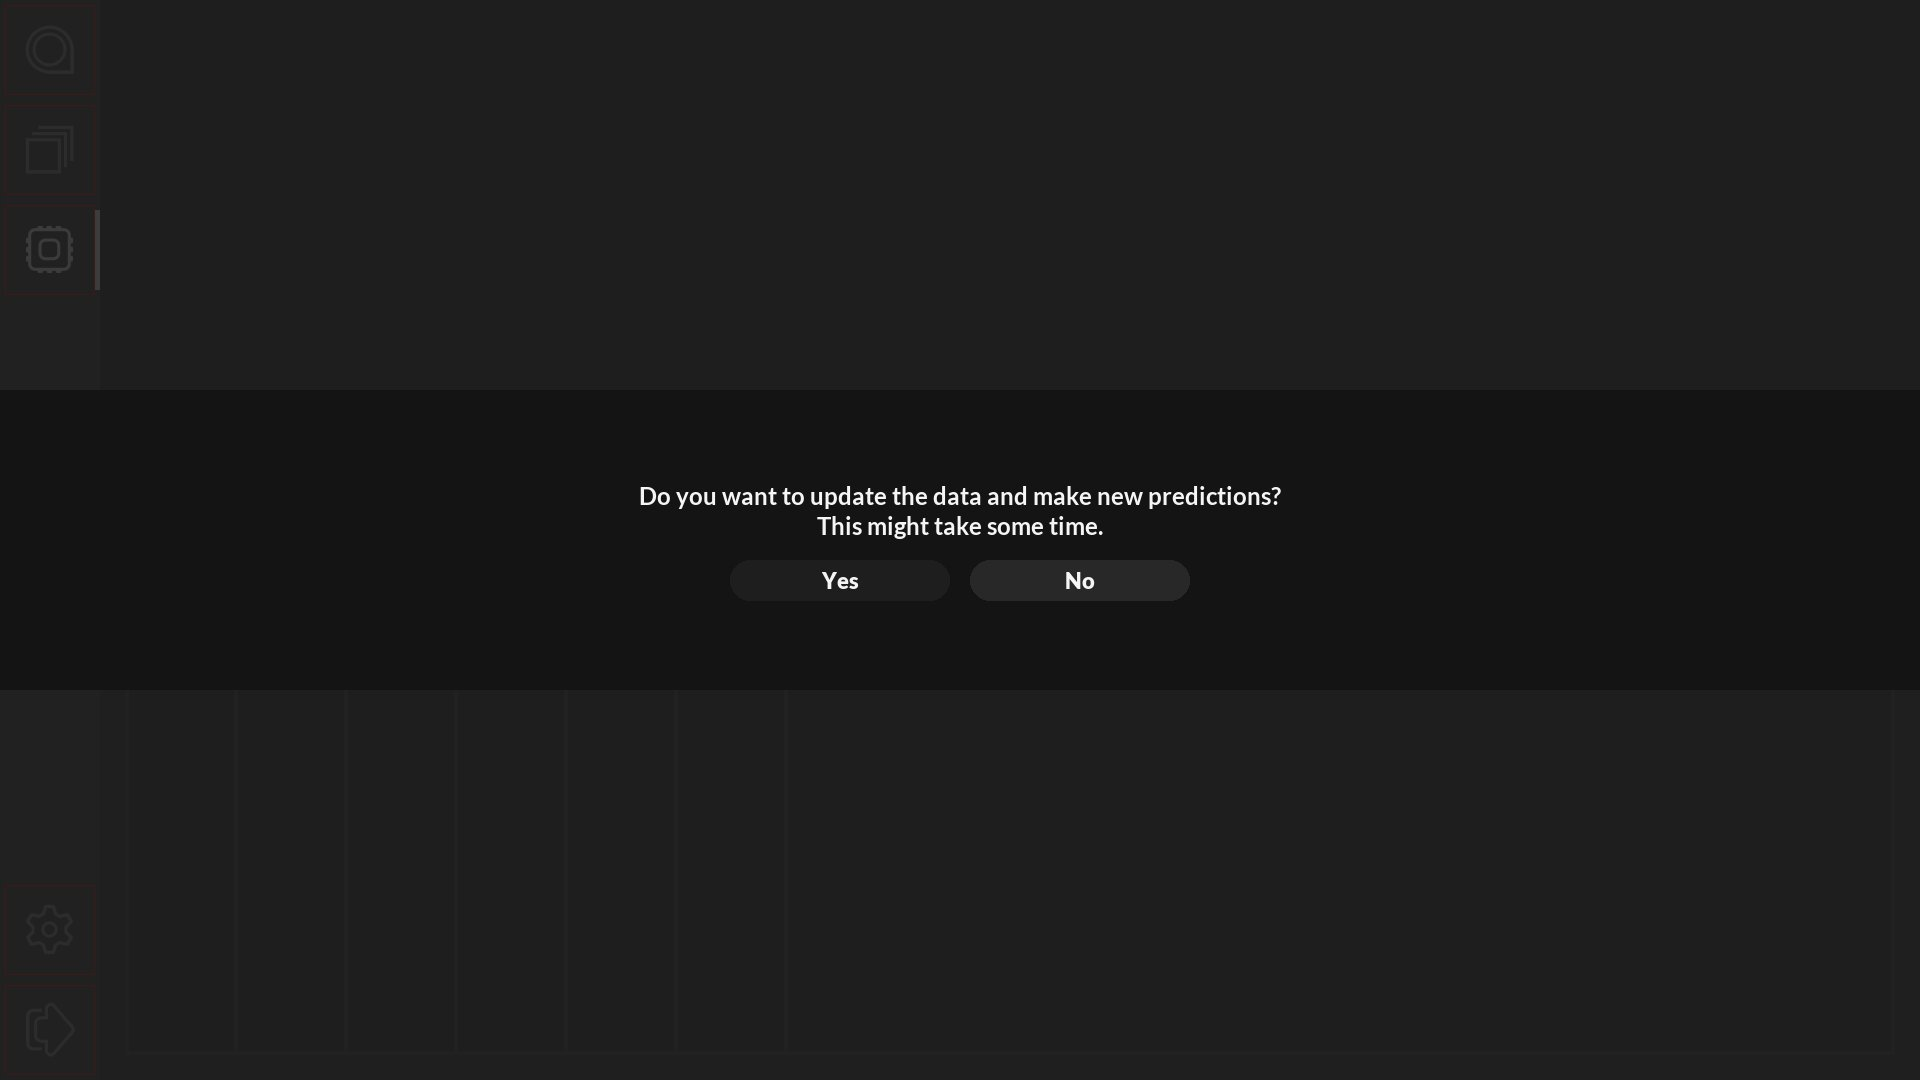
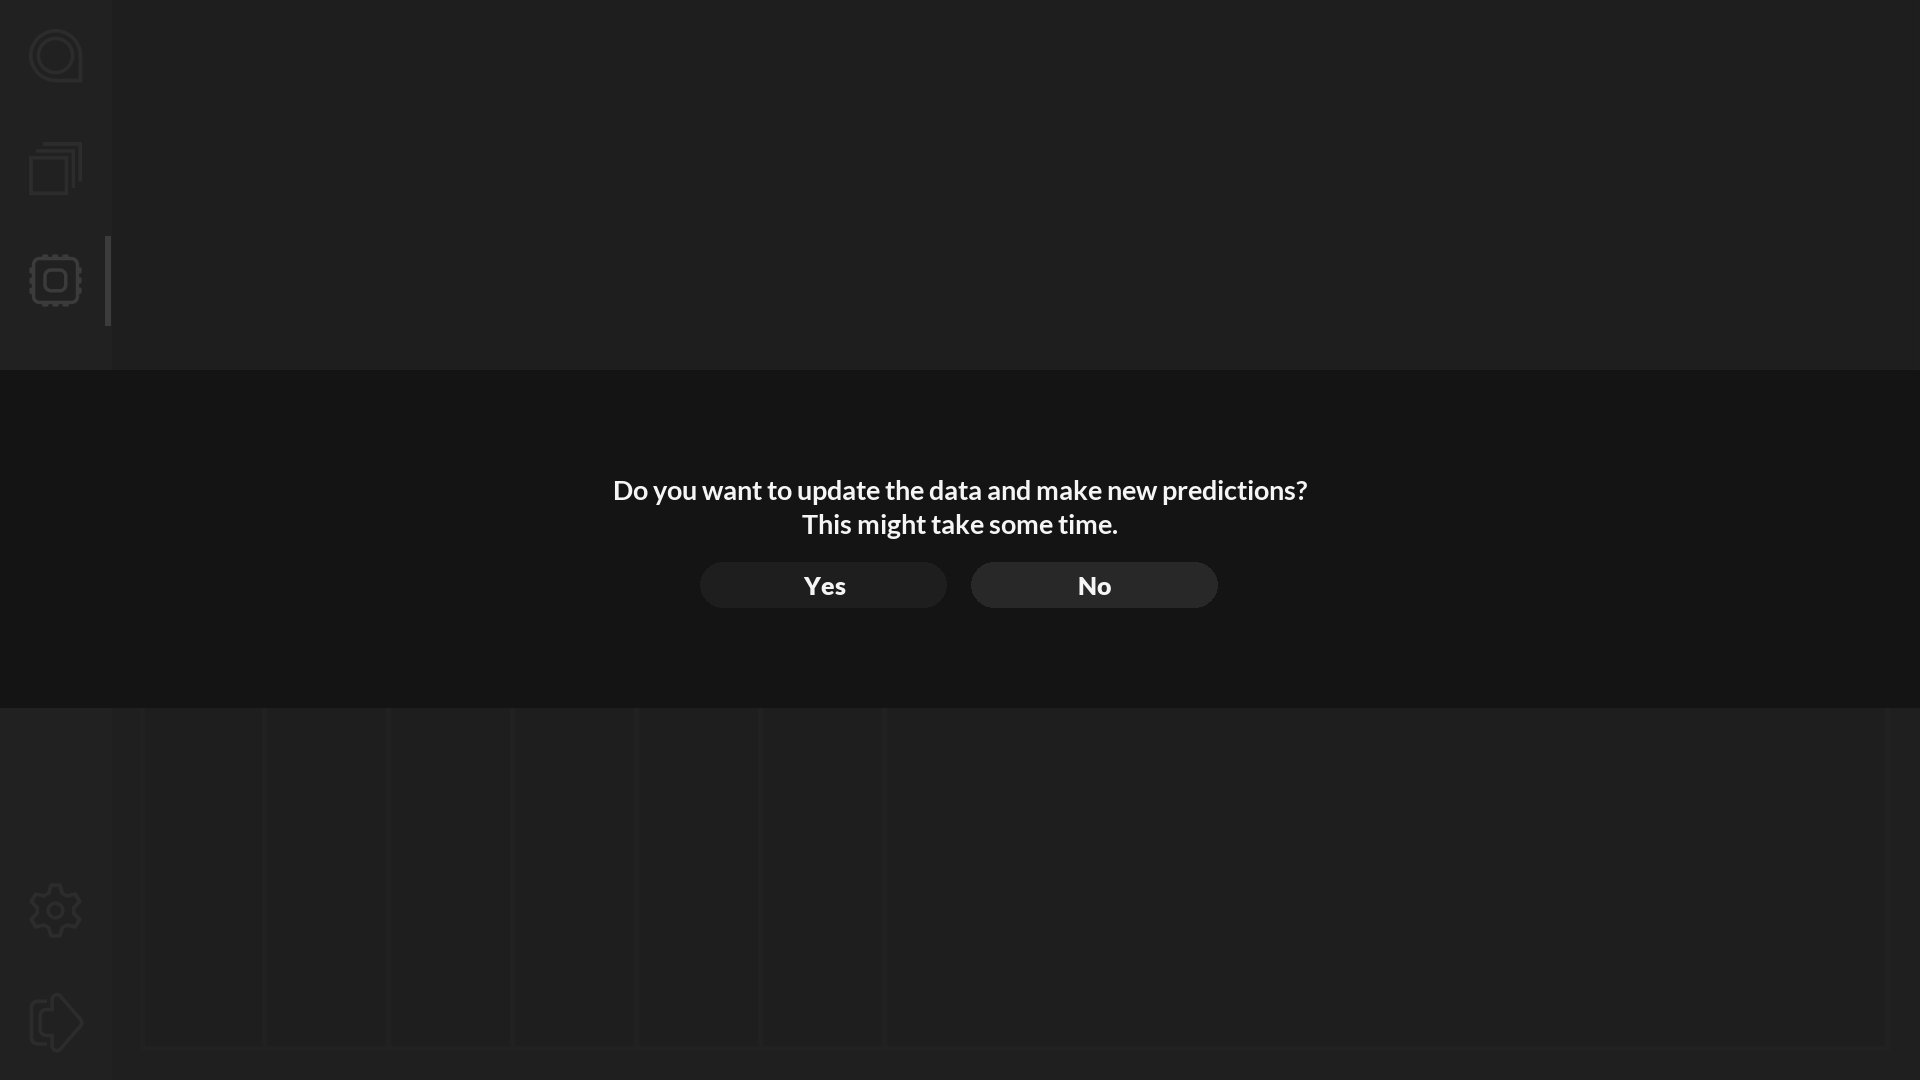
Visual and computational threads set up

diff --git a/src/modules/computingScene.py b/src/modules/computingScene.py
@@ -2,13 +2,43 @@
 import pygame as pg
 from src.classes.File import File
 import src.modules.stockHelper as sh
+from threading import Thread
 
 # Initializes predictions scene
 def boot(window, settings):
 
+    # Creates threads
+    visualThread = Thread(target=programLoop, args=(window, settings,))
+    computationThread = Thread(target=updatePredictions, args=(settings,))
+
+    # Starts threads
+    visualThread.start()
+    computationThread.start()
+
+    # Waits for threads to be done
+    visualThread.join()
+    computationThread.join()
+
+    return True, "predictions"
+
+def updatePredictions(settings):
+    
+    for i in range(200000): print(i)
+
+    predictionsData = File("data/predictions.datcs")
+    predictionsData.set("finishedUpdating", True)
+    predictionsData.save()
+
+# Visual thread
+def programLoop(window, settings):
+
     # Scene variables
     clock = pg.time.Clock()
     ui = generateUI(settings)
+
+    predictionsData = File("data/predictions.datcs")
+    predictionsData.set("finishedUpdating", False)
+    predictionsData.save()
 
     # Main scene loop
     while True:
@@ -21,7 +51,7 @@ def boot(window, settings):
 
         # Updates window
         response = handleUI(window, settings, ui)
-        if response != 1: return response
+        if response != 1: break
         window.update()
         window.blit(ui["misc"][0], (0, 0))
         clock.tick(60)
@@ -47,6 +77,7 @@ def generateUI(settings, misc=True):
 
     return ui
 
+# Handles input and visualization
 def handleUI(window, settings, ui):
 
     # More compact argument
@@ -67,10 +98,12 @@ def handleUI(window, settings, ui):
     message = predictionsData.get("loadingMessage")
     title = ui["titleFont"].render(title, True, settings.get("CRstrokeL"))
     message = ui["messageFont"].render(message, True, settings.get("CRstrokeL"))
-    window.blit(title, (1920 / 2 - ui["titleFont"].size(predictionsData.get("loadingTitle"))[0] / 2, 1080 / 2 + 25))
-    window.blit(message, (1920 / 2 - ui["messageFont"].size(predictionsData.get("loadingMessage"))[0] / 2, 1080 / 2 + 65))
+    window.blit(title, (1920 / 2 - ui["titleFont"].size(predictionsData.get("loadingTitle"))[0] / 2, 1080 / 2 + 25 * ms))
+    window.blit(message, (1920 / 2 - ui["messageFont"].size(predictionsData.get("loadingMessage"))[0] / 2, 1080 / 2 + 65 * ms))
 
-    return 1
+    # Continues or quits based on prediction data
+    if(predictionsData.get("finishedUpdating")): 0
+    else: return 1
 
 # Rotates an image from the center
 def rotateCenter(image, angle):

diff --git a/src/modules/predictionsScene.py b/src/modules/predictionsScene.py
@@ -149,6 +149,7 @@ def generateUI(window, settings, meta, buttons=True, text=True, hints=True):
 
     return ui
 
+# Handles input and visualization
 def handleUI(window, settings, ui, position, pressed, released, meta):
 
     # More compact argument

diff --git a/src/modules/settingsScene.py b/src/modules/settingsScene.py
@@ -160,6 +160,7 @@ dropdowns=True, text=True, hints=True, misc=True):
 
     return ui
 
+# Handles input and visualization
 def handleUI(window, settings, ui, position, pressed, released):
 
     # More compact argument
